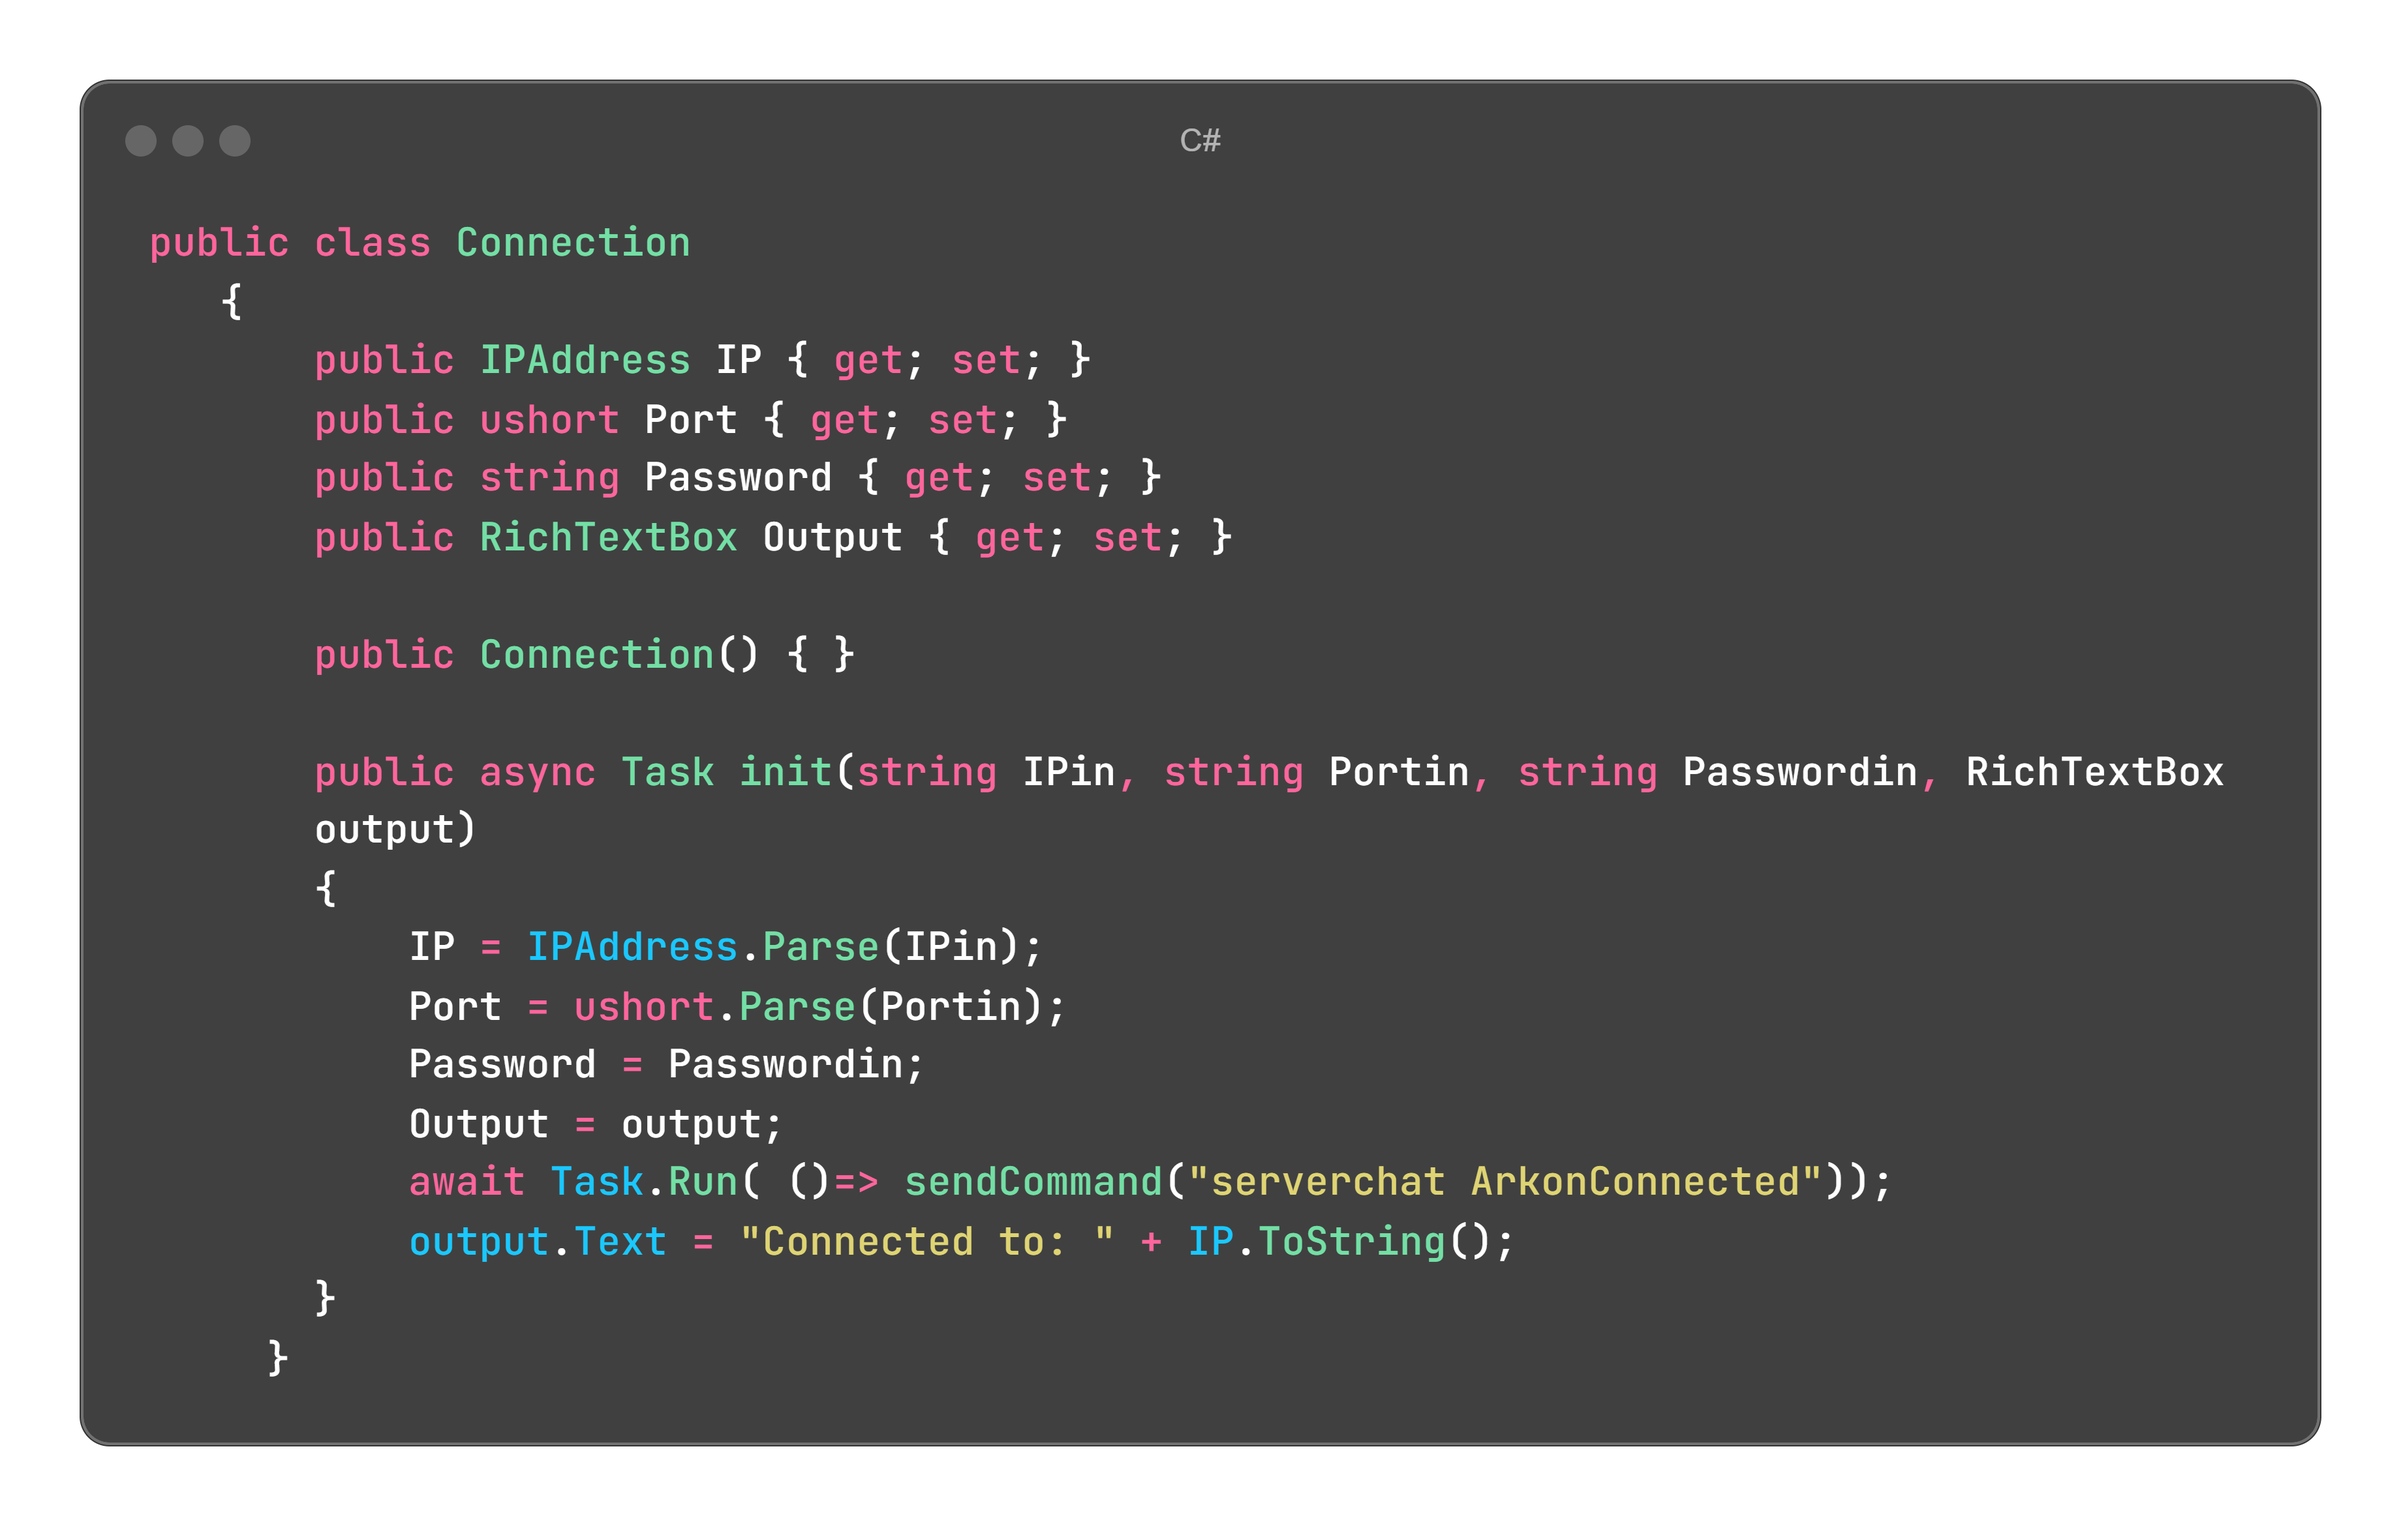
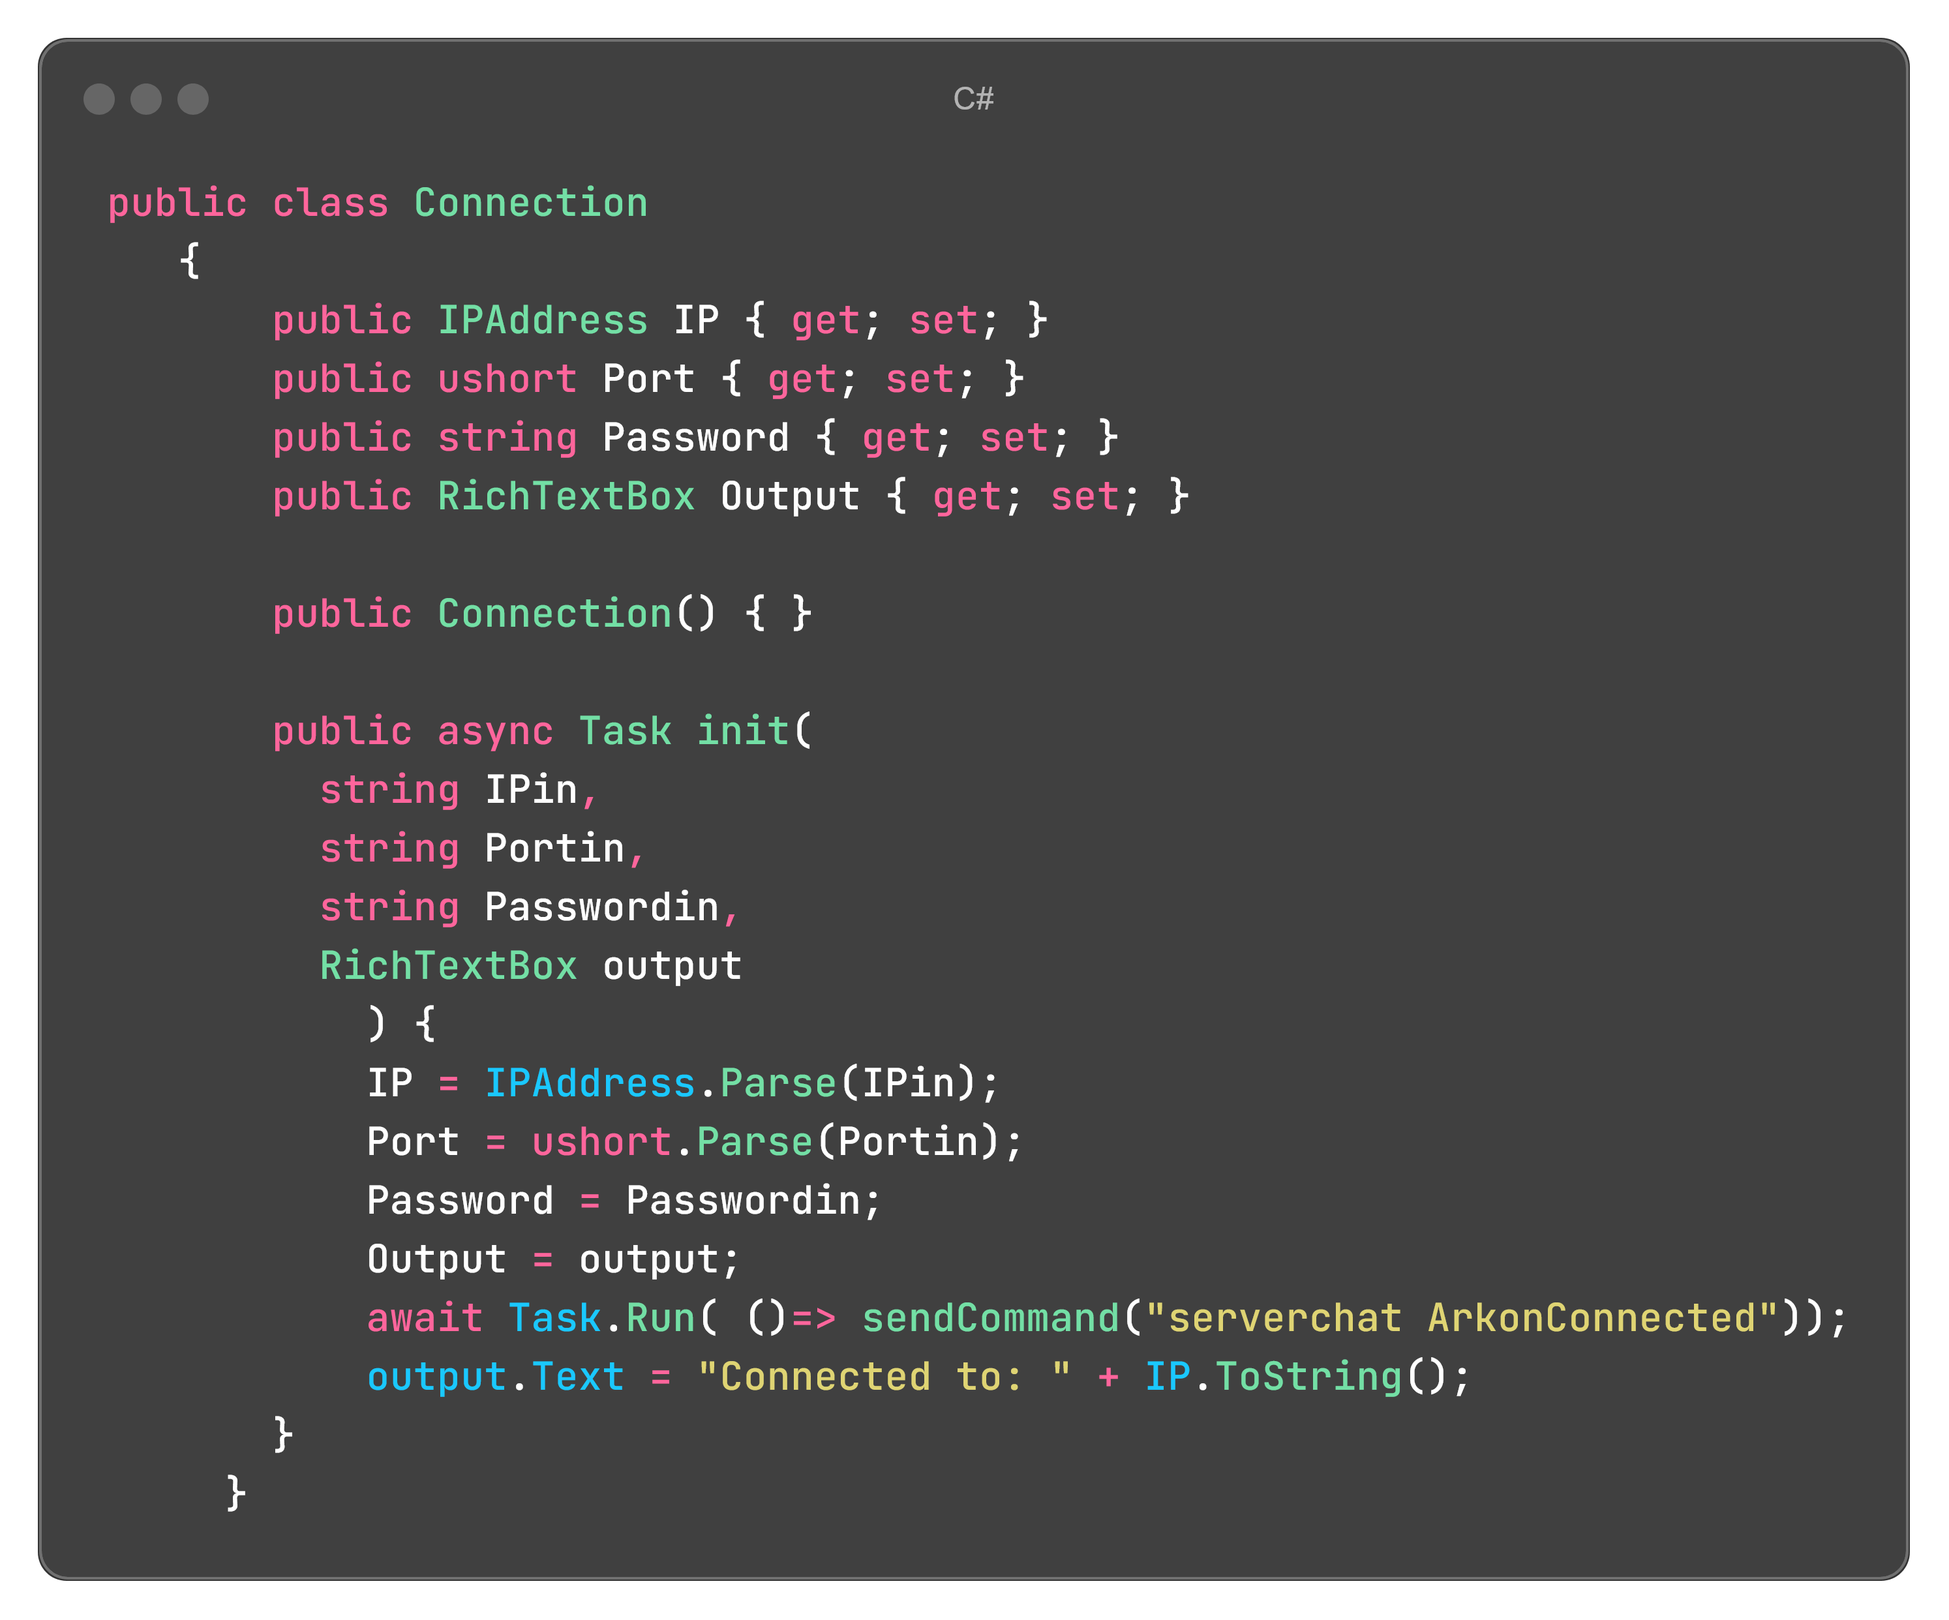
temp-fix: image generator had option for smaller padding

Changed region(s): [[0.0, 0.0, 0.996, 0.9983]]

diff --git a/src/skills/javascript.md b/src/skills/javascript.md
@@ -1,0 +1,7 @@
+---
+skill: "Javascript"
+expr: "3+ Years"
+conf: "4.5/5"
+proj: "InventoryBase & PropertyInspect (Radweb) & University"
+imgSrc: "/images/js.png"
+---
